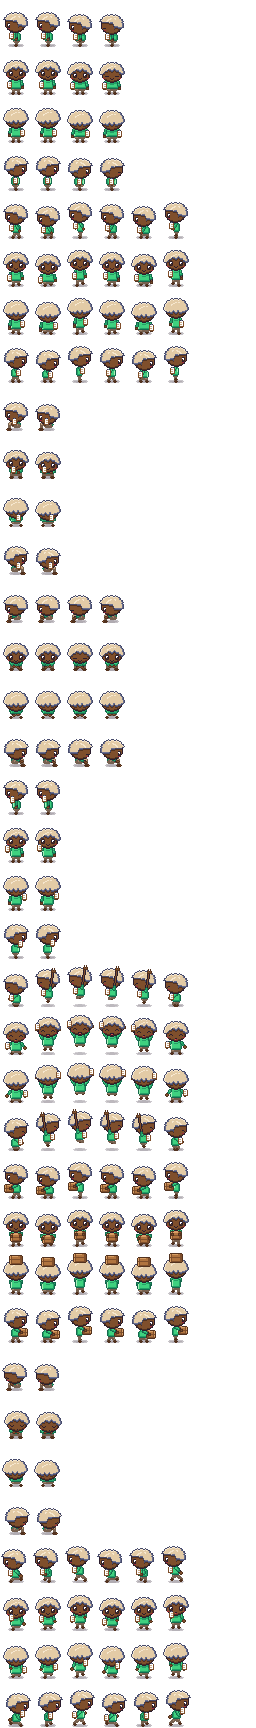
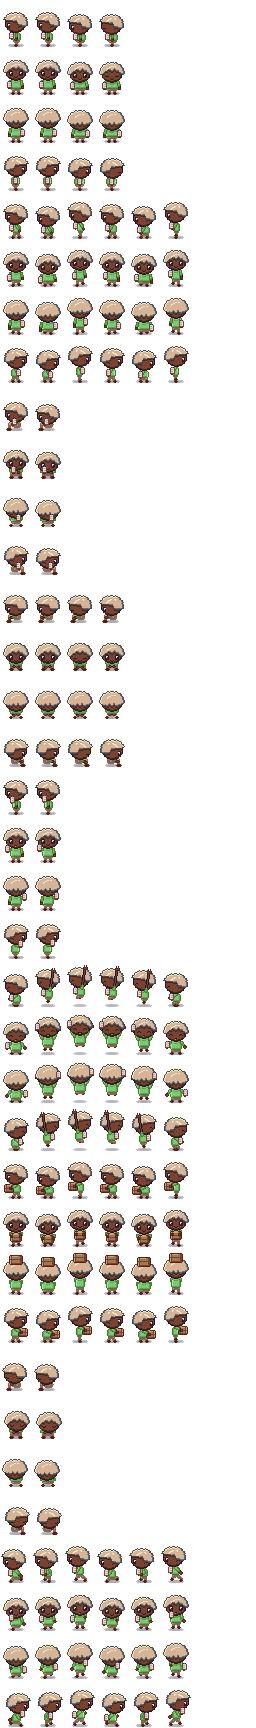
feat(world): passada de paleta nos 22 sprites dos bots (Paleta Vila 48) e teste de paleta

diff --git a/src/routes/equipe/world/bot-palette.test.ts b/src/routes/equipe/world/bot-palette.test.ts
@@ -1,0 +1,123 @@
+import { readFileSync, readdirSync } from 'node:fs';
+import { join } from 'node:path';
+import { inflateSync } from 'node:zlib';
+import { describe, expect, it } from 'vitest';
+
+// Paleta Vila 48 (8 ramps x 6 tones), copied from lina/vila/ui-kit/paleta-48.json
+const VILA_48 = [
+  '#1F280F', '#35511A', '#477A2D', '#62A353', '#75CC71', '#92F49C',
+  '#28230F', '#514D1A', '#747A2D', '#91A353', '#AACC71', '#C2F492',
+  '#280F0F', '#51221A', '#7A432D', '#A37653', '#CCA671', '#F4DA92',
+  '#280F17', '#511A24', '#7A2D30', '#A35C53', '#F97316', '#F4BA92',
+  '#4C2226', '#6F3B38', '#915F53', '#B48871', '#D7B494', '#F5E6C8',
+  '#0F2825', '#1A5051', '#2D6E7A', '#538AA3', '#71A2CC', '#92BAF4',
+  '#0F1028', '#1F1A51', '#3F2D7A', '#7253A3', '#A271CC', '#D592F4',
+  '#1E1A2B', '#424A50', '#656D78', '#898FA0', '#AFB3C7', '#D8D7EF',
+];
+const OVERLAY = '#1E1A2B';
+const BOTS_DIR = join(process.cwd(), 'public/world/v2/bots');
+const SHEET_W = 256;
+const SHEET_H = 1728;
+
+const hex = (r: number, g: number, b: number) => `#${((r << 16) | (g << 8) | b).toString(16).padStart(6, '0').toUpperCase()}`;
+
+function paeth(a: number, b: number, c: number): number {
+  const p = a + b - c;
+  const pa = Math.abs(p - a);
+  const pb = Math.abs(p - b);
+  const pc = Math.abs(p - c);
+  return pa <= pb && pa <= pc ? a : pb <= pc ? b : c;
+}
+
+interface Rgba { width: number; height: number; data: Uint8Array }
+
+function decodePng(buf: Buffer): Rgba {
+  let pos = 8;
+  let width = 0;
+  let height = 0;
+  let depth = 0;
+  let colorType = 0;
+  let interlace = 0;
+  let palette: Buffer | null = null;
+  let trns: Buffer | null = null;
+  const idat: Buffer[] = [];
+  while (pos < buf.length) {
+    const len = buf.readUInt32BE(pos);
+    const type = buf.toString('latin1', pos + 4, pos + 8);
+    const body = buf.subarray(pos + 8, pos + 8 + len);
+    if (type === 'IHDR') {
+      width = body.readUInt32BE(0);
+      height = body.readUInt32BE(4);
+      depth = body[8];
+      colorType = body[9];
+      interlace = body[12];
+    } else if (type === 'PLTE') palette = body;
+    else if (type === 'tRNS') trns = body;
+    else if (type === 'IDAT') idat.push(body);
+    pos += len + 12;
+  }
+  const channels = { 0: 1, 2: 3, 3: 1, 4: 2, 6: 4 }[colorType];
+  if (!channels || interlace !== 0 || (depth !== 8 && colorType !== 3)) throw new Error(`unsupported png: type ${colorType} depth ${depth} interlace ${interlace}`);
+  const bpp = Math.max(1, (channels * depth) / 8);
+  const stride = Math.ceil((width * channels * depth) / 8);
+  const raw = inflateSync(Buffer.concat(idat));
+  const px = new Uint8Array(stride * height);
+  for (let y = 0; y < height; y++) {
+    const filter = raw[y * (stride + 1)];
+    const src = y * (stride + 1) + 1;
+    const dst = y * stride;
+    for (let x = 0; x < stride; x++) {
+      const a = x >= bpp ? px[dst + x - bpp] : 0;
+      const b = y > 0 ? px[dst + x - stride] : 0;
+      const c = x >= bpp && y > 0 ? px[dst + x - stride - bpp] : 0;
+      const pred = filter === 0 ? 0 : filter === 1 ? a : filter === 2 ? b : filter === 3 ? (a + b) >> 1 : paeth(a, b, c);
+      px[dst + x] = (raw[src + x] + pred) & 255;
+    }
+  }
+  const data = new Uint8Array(width * height * 4);
+  for (let y = 0; y < height; y++) {
+    for (let x = 0; x < width; x++) {
+      const o = (y * width + x) * 4;
+      const i = y * stride + x * channels;
+      if (colorType === 3) {
+        const bit = x * depth;
+        const idx = depth === 8 ? px[y * stride + x] : (px[y * stride + (bit >> 3)] >> (8 - depth - (bit & 7))) & ((1 << depth) - 1);
+        if (!palette) throw new Error('indexed png without PLTE');
+        data.set([palette[idx * 3], palette[idx * 3 + 1], palette[idx * 3 + 2], trns && idx < trns.length ? trns[idx] : 255], o);
+      } else if (colorType === 6) data.set(px.subarray(i, i + 4), o);
+      else if (colorType === 2) data.set([px[i], px[i + 1], px[i + 2], 255], o);
+      else data.set([px[i], px[i], px[i], colorType === 4 ? px[i + 1] : 255], o);
+    }
+  }
+  return { width, height, data };
+}
+
+function audit(file: string) {
+  const { width, height, data } = decodePng(readFileSync(join(BOTS_DIR, file)));
+  const opaque = new Set<string>();
+  const translucent = new Set<string>();
+  for (let i = 0; i < data.length; i += 4) {
+    const a = data[i + 3];
+    if (a === 0) continue;
+    (a === 255 ? opaque : translucent).add(hex(data[i], data[i + 1], data[i + 2]));
+  }
+  return { width, height, opaque, translucent };
+}
+
+const sheets = readdirSync(BOTS_DIR).filter((f) => f.endsWith('.png') && !f.endsWith('-shirt.png')).sort();
+
+describe('bot sheets use only Paleta Vila 48', () => {
+  it('finds the 22 sheets', () => {
+    expect(sheets).toHaveLength(22);
+    expect(new Set(VILA_48).size).toBe(48);
+    expect(VILA_48).toContain(OVERLAY);
+  });
+
+  it.each(sheets)('%s', (file) => {
+    const { width, height, opaque, translucent } = audit(file);
+    expect([width, height]).toEqual([SHEET_W, SHEET_H]);
+    expect(opaque.size).toBeGreaterThan(4);
+    expect([...opaque].filter((c) => !VILA_48.includes(c)).sort()).toEqual([]);
+    expect([...translucent]).toEqual([OVERLAY]);
+  });
+});

diff --git a/scripts/world-v2/gen-bots.py b/scripts/world-v2/gen-bots.py
@@ -1278,8 +1278,8 @@ def tint_ramp(hexcol):
 def tinted(img, hexcol):
     a = np.array(img)
     tr = tint_ramp(hexcol)
-    for c, t in zip(SHIRT, tr):
-        sel = np.all(a[..., :3] == rgb(c), axis=-1) & (a[..., 3] == 255)
+    for c, t in zip(SHIRT_VILA, tr):
+        sel = np.all(a[..., :3] == c, axis=-1) & (a[..., 3] == 255)
         a[sel, :3] = t
     return Image.fromarray(a, "RGBA")
 
@@ -1394,7 +1394,7 @@ def contact(spec, rows, path):
             d.rectangle((0, y, W, y + FH * S + 2), fill=(226, 216, 196))
         d.text((6, y + FH * S // 2 - 7), "%s / %s" % (an, dn), fill=rgb("ol0"), font=f)
         for fi, (fimg, _) in enumerate(fr):
-            big = fimg.resize((FW * S, FH * S), Image.NEAREST)
+            big = to_vila48(fimg, spec["id"]).resize((FW * S, FH * S), Image.NEAREST)
             im.paste(big, (lab_w + fi * (FW * S + 3), y + 1), big)
     im.save(path)
 
@@ -1416,15 +1416,80 @@ def bake_deck_shirt(sheet, mask):
     return Image.fromarray(a, "RGBA")
 
 
-def check_palette(img):
+# Paleta Vila 48 (lina/vila/ui-kit/paleta-48.json): 8 ramps x 6 tones, dark -> light
+VILA48 = {
+    "verde": ["#1f280f", "#35511a", "#477a2d", "#62a353", "#75cc71", "#92f49c"],
+    "folha": ["#28230f", "#514d1a", "#747a2d", "#91a353", "#aacc71", "#c2f492"],
+    "terra": ["#280f0f", "#51221a", "#7a432d", "#a37653", "#cca671", "#f4da92"],
+    "telha": ["#280f17", "#511a24", "#7a2d30", "#a35c53", "#f97316", "#f4ba92"],
+    "pele": ["#4c2226", "#6f3b38", "#915f53", "#b48871", "#d7b494", "#f5e6c8"],
+    "agua": ["#0f2825", "#1a5051", "#2d6e7a", "#538aa3", "#71a2cc", "#92baf4"],
+    "lilas": ["#0f1028", "#1f1a51", "#3f2d7a", "#7253a3", "#a271cc", "#d592f4"],
+    "pedra": ["#1e1a2b", "#424a50", "#656d78", "#898fa0", "#afb3c7", "#d8d7ef"],
+}
+
+# Every drawing colour the bots use -> one Paleta Vila 48 tone ("ramp-index"). Targets are the CIEDE2000
+# nearest tone, moved to a free neighbour where the nearest would merge two tones of the same ramp or
+# break its dark -> light order. The shirt base g0..g3 owns verde-2..5 alone (the foliage greens go to
+# folha), so a recolour by colour equality still hits only the shirt. Known merges, never inside one part:
+# p0/m0 (near-black cool), s3/t4/y2 (cream), w3/t2/y0/h3 (caramel), s2/r2 (peach), s0/t0, s1/t1, w2/h2,
+# k0/c0, k1/c1. The palette has one saturated warm (telha-4): it is the red base r1, since the nearest
+# tone (telha-3) made a red beret melt into chestnut hair, and amber y0 gives it up to stay a hair tone.
+VILA48_REMAP = {
+    "ol0": "pedra-0", "ol1": "telha-1",
+    "s0": "pele-2", "s1": "pele-3", "s2": "telha-5", "s3": "pele-5",
+    "h0": "pele-0", "h1": "pele-1", "h2": "terra-3", "h3": "terra-4",
+    "g0": "verde-2", "g1": "verde-3", "g2": "verde-4", "g3": "verde-5",
+    "p0": "lilas-1", "p1": "lilas-2", "p2": "lilas-3",
+    "w0": "terra-1", "w1": "terra-2", "w2": "terra-3", "w3": "terra-4",
+    "t0": "pele-2", "t1": "pele-3", "t2": "terra-4", "t3": "pele-4", "t4": "pele-5",
+    "q0": "verde-1", "q1": "folha-2", "q2": "folha-3", "q3": "folha-4", "q4": "folha-5", "q5": "folha-5",
+    "a0": "agua-1", "a1": "agua-3", "a2": "agua-4", "a3": "agua-5",
+    "y0": "terra-4", "y1": "terra-5", "y2": "pele-5",
+    "r0": "telha-2", "r1": "telha-4", "r2": "telha-5",
+    "wh": "pedra-5",
+    "m0": "lilas-1", "m1": "pedra-1", "m2": "pedra-2",
+    "k0": "lilas-4", "k1": "lilas-5",
+    "c0": "lilas-4", "c1": "lilas-5",
+}
+assert set(VILA48_REMAP) == set(PALETTE)
+# amber y0 on the Deck sheet is only the cap: it stays the orange that identifies the avatar
+VILA48_BOT_REMAP = {"deck": {"y0": "telha-4"}}
+
+
+def vila(tone):
+    ramp, i = tone.split("-")
+    return VILA48[ramp][int(i)]
+
+
+VILA48_RGB = {hexrgb(h) for ramp in VILA48.values() for h in ramp}
+VILA_OUTLINE = hexrgb(vila(VILA48_REMAP["ol0"]))
+VILA_LUT = {rgb(n): hexrgb(vila(t)) for n, t in VILA48_REMAP.items()}
+assert not set(VILA_LUT) & VILA48_RGB and {hexrgb(h) for h in DECK_SHIRT.values()} <= VILA48_RGB
+SHIRT_VILA = [VILA_LUT[rgb(c)] for c in SHIRT]
+
+
+def to_vila48(img, bot=None):
+    """recolour a finished frame or sheet: PALETTE -> Paleta Vila 48; colours already in Vila 48 are kept"""
     a = np.array(img.convert("RGBA"))
-    op = a[..., 3] == 255
-    pal = np.array([rgb(n) for n in PALETTE] + [hexrgb(h) for h in DECK_SHIRT.values()])
-    px = a[op][:, :3]
-    ok = np.zeros(len(px), bool)
-    for c in pal:
-        ok |= np.all(px == c, axis=1)
-    return int((~ok).sum())
+    src = a.copy()
+    seen = a[..., 3] > 0
+    lut = {**VILA_LUT, **{rgb(n): hexrgb(vila(t)) for n, t in VILA48_BOT_REMAP.get(bot, {}).items()}}
+    for old, new in lut.items():
+        a[seen & np.all(src[..., :3] == old, axis=-1), :3] = new
+    a[seen & (a[..., 3] < 255), :3] = VILA_OUTLINE
+    return Image.fromarray(a, "RGBA")
+
+
+def check_palette(img):
+    """pixels outside the contract: opaque = Paleta Vila 48 only, translucent = the Vila outline only"""
+    a = np.array(img.convert("RGBA"))
+    px, n = np.unique(a[a[..., 3] > 0], axis=0, return_counts=True)
+    bad = 0
+    for (r, g, b, al), k in zip(px.tolist(), n.tolist()):
+        if ((r, g, b) != VILA_OUTLINE) if al < 255 else ((r, g, b) not in VILA48_RGB):
+            bad += k
+    return bad
 
 
 def main():
@@ -1443,6 +1508,7 @@ def main():
         sheet, mask, meta, rows = bot_sheet(spec)
         if spec["id"] == "deck":
             sheet = bake_deck_shirt(sheet, mask)
+        sheet = to_vila48(sheet, spec["id"])
         sheet.save(os.path.join(out, "bots", spec["id"] + ".png"), optimize=True)
         mask.save(os.path.join(out, "bots", spec["id"] + "-shirt.png"), optimize=True)
         contact(spec, rows, os.path.join(prev, "contact-%s.png" % spec["id"]))
@@ -1460,7 +1526,7 @@ def main():
                       "note": "origin = bottom-centre; feet on row 46, row 47 empty"},
             "sheet": {"w": COLS * FW, "h": len(ANIMS) * len(DIRS) * FH, "columns": COLS},
             "directions": DIRS,
-            "shirt_ramp": [PALETTE[c] for c in SHIRT],
+            "shirt_ramp": ["#%02x%02x%02x" % c for c in SHIRT_VILA],
             "animations": {an: {"row": v["row"], "rows": v["rows"], "frames": v["frames"], "fps": v["fps"]}
                            for an, v in anim_meta.items()},
             "fx": {"zzz": {"image": "fx-zzz.png", "frame": {"w": 16, "h": 16}, "frames": 3, "fps": 3,
@@ -1473,7 +1539,7 @@ def main():
         gif_fixed(sheets, os.path.join(prev, "vila-bots-sleep-sit-celebrate.gif"), ["nami", "anderson", "iris", "vegeta"])
         gif_walk(sheets, os.path.join(prev, "vila-bots-walk-all.gif"))
         gif_all(sheets, os.path.join(prev, "vila-bots-new4.gif"), ["malu", "naruto", "sasuke", "hinata"])
-    print("bots:", len(sheets), "palette colours:", len(PALETTE), "off-palette opaque px:", bad,
+    print("bots:", len(sheets), "palette colours:", len(VILA48_RGB), "off-palette px:", bad,
           "strays removed:", STRAYS[0])
 
 
